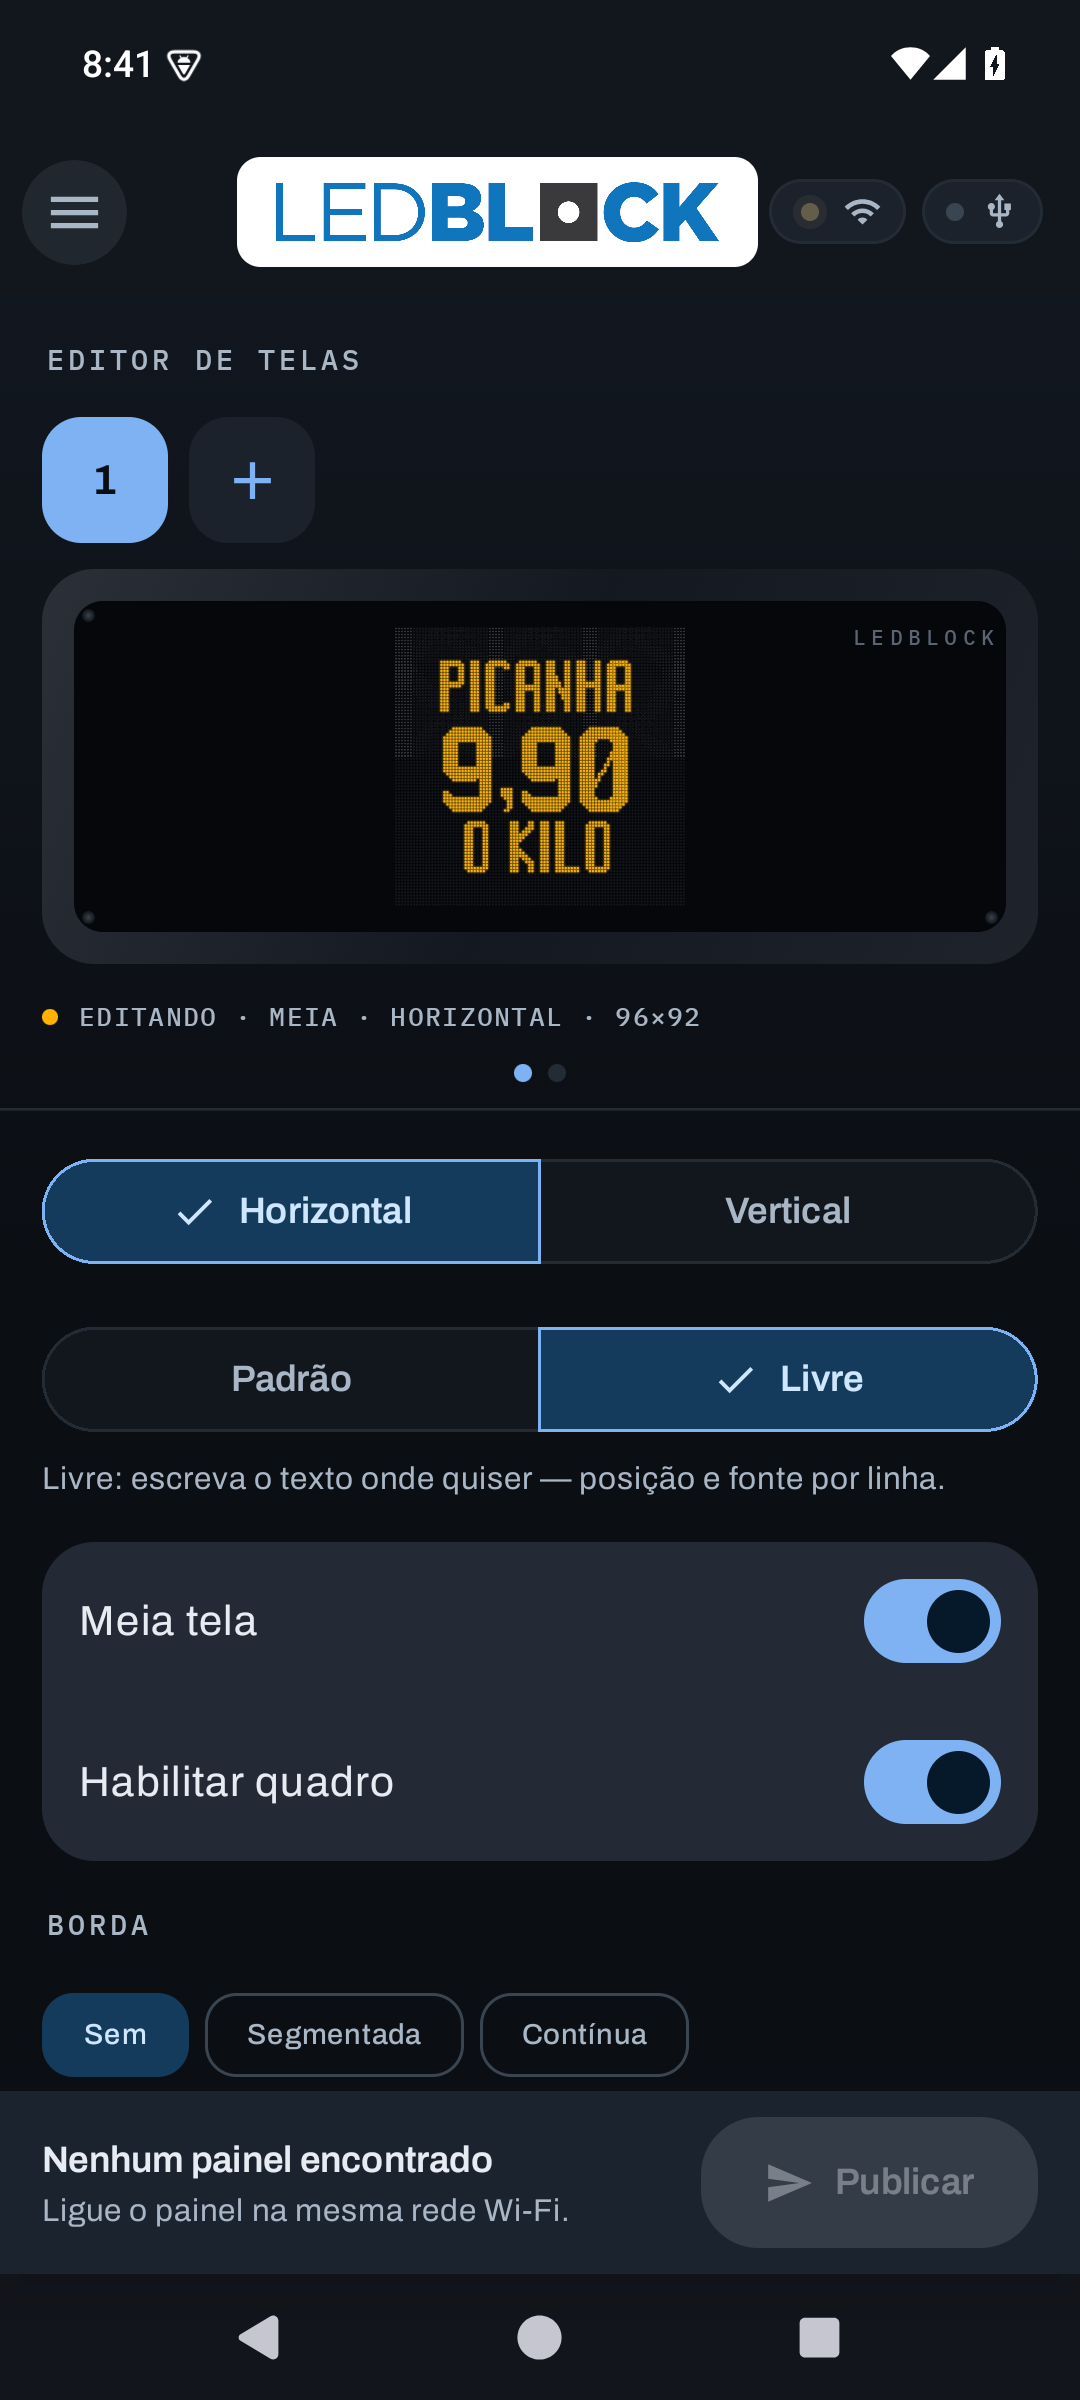
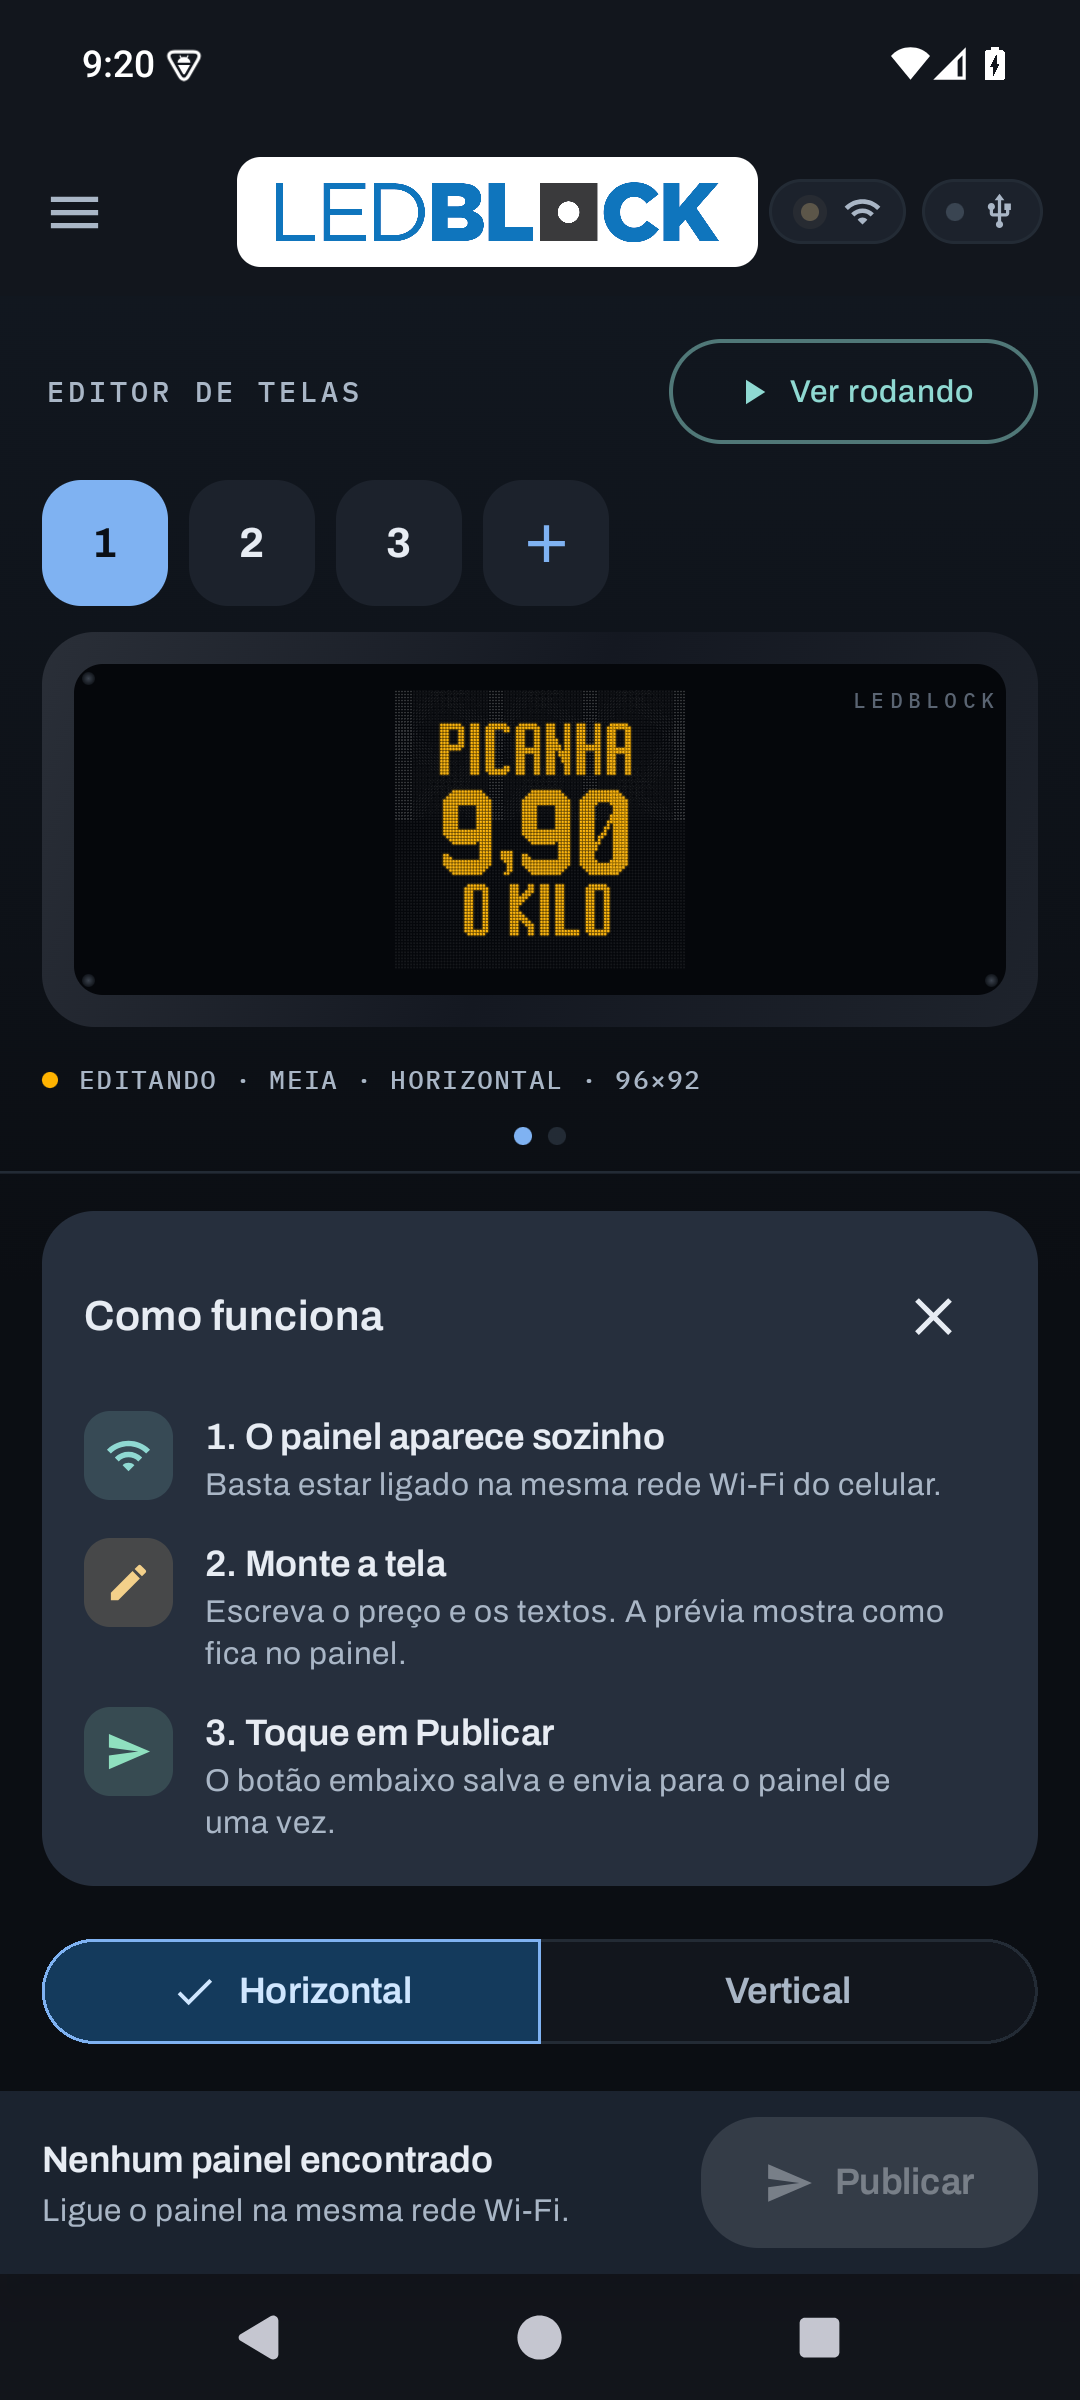
feat: criacao em lote e previa animada da sequencia
'Melhore exponencialmente': o ganho nao veio de polir, veio de multiplicar a saida.
APK v0.38.0 (versionCode 40). Build + testes verdes.

Criacao em lote (EditorViewModel.addBatch)
- Cole a lista de ofertas, uma por linha -> cada linha vira uma tela pronta, com
  a composicao inteligente (preco em destaque) e NOME tirado do produto
  ('PICANHA 9,90 O KILO' -> tela 'Picanha').
- Opcao de somar as telas atuais ou substituir. Acessivel pelo dialogo do '+'.
- Para quem troca 20 precos por semana, o album inteiro sai de uma colada.

Previa animada
- Botao 'Ver rodando' toca a sequencia usando o tempo de cada tela
  (DurationTable; indice 0 = auto -> 3s), como o painel vai exibir.
- Permite conferir o album de relance depois de cria-lo em massa.

Testes: BatchTest com 5 casos (nome vindo do produto, limite de 2 palavras, linha
sem preco, linhas em branco, separacao de cada oferta da lista).

Verificado no emulador: lista de 3 ofertas -> telas [1][2][3]; tela 1 = PICANHA/
9,90/O KILO, tela 2 = ALCATRA/7,90/O KILO; 'Ver rodando' alterna para 'Parar'.

diff --git a/app/src/main/java/br/com/painelofertas/ui/screens/EditarScreen.kt b/app/src/main/java/br/com/painelofertas/ui/screens/EditarScreen.kt
@@ -43,6 +43,9 @@ import androidx.compose.material.icons.filled.Download
 import androidx.compose.material.icons.filled.History
 import androidx.compose.material.icons.filled.KeyboardArrowDown
 import androidx.compose.material.icons.filled.KeyboardArrowUp
+import androidx.compose.material.icons.filled.Pause
+import androidx.compose.material.icons.filled.PlayArrow
+import androidx.compose.material.icons.filled.PlaylistAdd
 import androidx.compose.material.icons.filled.Sync
 import androidx.compose.material.icons.filled.Upload
 import androidx.compose.material.icons.filled.WarningAmber
@@ -148,7 +151,19 @@ fun EditarScreen() {
     var confirmClear by remember { mutableStateOf(false) }
     var confirmDeleteAlbum by remember { mutableStateOf<String?>(null) }
     var showNameDialog by remember { mutableStateOf(false) }
+    var showBatchDialog by remember { mutableStateOf(false) }
     var showGuide by remember { mutableStateOf(!container.settings.onboardingDone) }
+    var tocando by remember { mutableStateOf(false) }
+
+    // Prévia animada: avança pelas telas usando o tempo de cada uma (como o painel).
+    LaunchedEffect(tocando, vm.frames.size) {
+        if (!tocando || vm.frames.size <= 1) return@LaunchedEffect
+        while (tocando) {
+            val seg = DurationTable.secondsByIndex.getOrNull(vm.current?.durationIndex ?: 0) ?: 0
+            delay(if (seg > 0) seg * 1000L else 3000L)  // 0 = "auto" → 3s
+            vm.selected = (vm.sel + 1) % vm.frames.size
+        }
+    }
     var panelBusy by remember { mutableStateOf(false) }
     val ledIdx by container.settings.ledColor.collectAsState()
 
@@ -319,7 +334,24 @@ fun EditarScreen() {
             Modifier.fillMaxWidth().padding(horizontal = 16.dp).padding(top = 12.dp, bottom = 10.dp),
             verticalArrangement = Arrangement.spacedBy(10.dp),
         ) {
-            SectionLabel("Editor de telas")
+            Row(Modifier.fillMaxWidth(), verticalAlignment = Alignment.CenterVertically, horizontalArrangement = Arrangement.SpaceBetween) {
+                SectionLabel("Editor de telas")
+                // Prévia animada: roda a sequência como o painel vai exibir.
+                if (vm.frames.size > 1) {
+                    AccentOutlinedButton(
+                        onClick = { tocando = !tocando },
+                        accent = if (tocando) Accent.Rose else Accent.Teal,
+                    ) {
+                        Icon(
+                            if (tocando) Icons.Filled.Pause else Icons.Filled.PlayArrow,
+                            if (tocando) "Parar a prévia" else "Ver a sequência rodando",
+                            Modifier.size(16.dp),
+                        )
+                        Spacer(Modifier.size(6.dp))
+                        Text(if (tocando) "Parar" else "Ver rodando", style = MaterialTheme.typography.labelMedium)
+                    }
+                }
+            }
             ScreensBar(vm) { showNameDialog = true }
             if (cur != null) {
                 val frameAtual = cur.build(fonts, vm.portrait)
@@ -489,9 +521,21 @@ fun EditarScreen() {
     }
 
     if (showNameDialog) {
-        NovaTelaDialog(sugestao = "Tela ${vm.frames.size + 1}", onDismiss = { showNameDialog = false }) { nome, tipoMsg ->
+        NovaTelaDialog(
+            sugestao = "Tela ${vm.frames.size + 1}",
+            onDismiss = { showNameDialog = false },
+            onLote = { showNameDialog = false; showBatchDialog = true },
+        ) { nome, tipoMsg ->
             if (tipoMsg) vm.addMsg(nome) else vm.addOfe(nome)
             showNameDialog = false
+        }
+    }
+
+    if (showBatchDialog) {
+        LoteDialog(onDismiss = { showBatchDialog = false }) { texto, substituir ->
+            val n = vm.addBatch(texto, substituir)
+            msg = if (n > 0) "$n tela(s) criada(s) da lista." else "Nada para criar."
+            showBatchDialog = false
         }
     }
 
@@ -767,9 +811,14 @@ private fun PreviewPager(editing: PanelFrame, half: Boolean, portrait: Boolean, 
     }
 }
 
-/** Diálogo do "+": nomear a nova tela e escolher o tipo. */
+/** Diálogo do "+": nomear a nova tela, escolher o tipo — ou criar várias de uma vez. */
 @Composable
-private fun NovaTelaDialog(sugestao: String, onDismiss: () -> Unit, onCreate: (String, Boolean) -> Unit) {
+private fun NovaTelaDialog(
+    sugestao: String,
+    onDismiss: () -> Unit,
+    onLote: () -> Unit,
+    onCreate: (String, Boolean) -> Unit,
+) {
     var nome by remember { mutableStateOf("") }
     var tipoMsg by remember { mutableStateOf(false) }
     AlertDialog(
@@ -780,9 +829,55 @@ private fun NovaTelaDialog(sugestao: String, onDismiss: () -> Unit, onCreate: (S
             Column(verticalArrangement = Arrangement.spacedBy(12.dp)) {
                 OutlinedTextField(nome, { nome = it }, label = { Text("Nome (ex.: Picanha)") }, singleLine = true, modifier = Modifier.fillMaxWidth())
                 SegChoice(listOf("Oferta", "Mensagem"), if (tipoMsg) 1 else 0, Modifier.fillMaxWidth()) { tipoMsg = it == 1 }
+                HorizontalDivider(color = MaterialTheme.colorScheme.outlineVariant)
+                AccentOutlinedButton(onClick = onLote, accent = Accent.Teal, modifier = Modifier.fillMaxWidth()) {
+                    Icon(Icons.Filled.PlaylistAdd, null, Modifier.size(18.dp)); Spacer(Modifier.size(6.dp))
+                    Text("Criar várias de uma lista")
+                }
             }
         },
         confirmButton = { TextButton(onClick = { onCreate(nome.ifBlank { sugestao }, tipoMsg) }) { Text("Criar") } },
+        dismissButton = { TextButton(onClick = onDismiss) { Text("Cancelar") } },
+    )
+}
+
+/**
+ * **Criação em lote**: cole a lista de ofertas — uma por linha — e receba o álbum
+ * pronto. Cada linha vira uma tela diagramada com o preço em destaque.
+ */
+@Composable
+private fun LoteDialog(onDismiss: () -> Unit, onCriar: (String, Boolean) -> Unit) {
+    var texto by remember { mutableStateOf("") }
+    var substituir by remember { mutableStateOf(false) }
+    val linhas = texto.split('\n').count { it.isNotBlank() }
+
+    AlertDialog(
+        onDismissRequest = onDismiss,
+        icon = { Icon(Icons.Filled.PlaylistAdd, null) },
+        title = { Text("Criar várias telas") },
+        text = {
+            Column(verticalArrangement = Arrangement.spacedBy(12.dp)) {
+                Text(
+                    "Uma oferta por linha. O app separa o preço e monta cada tela.",
+                    style = MaterialTheme.typography.bodySmall,
+                    color = MaterialTheme.colorScheme.onSurfaceVariant,
+                )
+                OutlinedTextField(
+                    texto, { texto = it },
+                    label = { Text("Lista de ofertas") },
+                    placeholder = { Text("PICANHA 9,90 O KILO\nALCATRA 7,90 O KILO\nFRALDINHA 6,50 O KILO") },
+                    minLines = 5,
+                    modifier = Modifier.fillMaxWidth(),
+                )
+                InlineToggle("Substituir as telas atuais", substituir) { substituir = it }
+                if (linhas > 0) {
+                    MonoText("$linhas tela(s) serão criadas", size = 11, color = Accent.Teal)
+                }
+            }
+        },
+        confirmButton = {
+            TextButton(onClick = { onCriar(texto, substituir) }, enabled = linhas > 0) { Text("Criar $linhas") }
+        },
         dismissButton = { TextButton(onClick = onDismiss) { Text("Cancelar") } },
     )
 }

diff --git a/app/src/test/java/br/com/painelofertas/editor/BatchTest.kt b/app/src/test/java/br/com/painelofertas/editor/BatchTest.kt
@@ -1,0 +1,66 @@
+package br.com.painelofertas.editor
+
+import br.com.painelofertas.render.AutoLayout
+import org.junit.Assert.assertEquals
+import org.junit.Assert.assertTrue
+import org.junit.Test
+
+/**
+ * Criação em lote: cada linha da lista precisa virar uma tela com o texto certo,
+ * o preço reconhecido e um nome curto tirado do produto.
+ *
+ * Testa a lógica pura (separação + nome), sem depender do ViewModel/Android.
+ */
+class BatchTest {
+
+    /** Espelha `EditorViewModel.nomeDaOferta` — nome curto a partir da linha. */
+    private fun nomeDaOferta(linha: String): String {
+        val antes = AutoLayout.smartSplit(linha).firstOrNull()?.takeIf { !it.hero }?.text
+        val base = antes ?: linha
+        return base.split(Regex("\\s+")).take(2).joinToString(" ")
+            .lowercase().replaceFirstChar { it.uppercase() }
+    }
+
+    @Test
+    fun `nome da tela vem do produto antes do preco`() {
+        assertEquals("Picanha", nomeDaOferta("PICANHA 9,90 O KILO"))
+        assertEquals("File mignon", nomeDaOferta("FILE MIGNON 49,90 O KILO"))
+    }
+
+    @Test
+    fun `nome usa no maximo duas palavras`() {
+        assertEquals("Coxa e", nomeDaOferta("COXA E SOBRECOXA 8,90 O KILO"))
+    }
+
+    @Test
+    fun `linha sem preco ainda gera nome`() {
+        assertEquals("Bem vindos", nomeDaOferta("BEM VINDOS A NOSSA LOJA"))
+    }
+
+    @Test
+    fun `cada linha da lista vira uma oferta com preco destacado`() {
+        val lista = """
+            PICANHA 9,90 O KILO
+            ALCATRA 7,90 O KILO
+            FRALDINHA 6,50 O KILO
+        """.trimIndent()
+
+        val linhas = lista.split('\n').map { it.trim() }.filter { it.isNotBlank() }
+        assertEquals(3, linhas.size)
+
+        linhas.forEach { linha ->
+            val partes = AutoLayout.smartSplit(linha)
+            assertEquals("deveria separar em produto/preco/medida", 3, partes.size)
+            assertTrue("o preco deveria ser o destaque", partes[1].hero)
+        }
+
+        assertEquals(listOf("Picanha", "Alcatra", "Fraldinha"), linhas.map { nomeDaOferta(it) })
+    }
+
+    @Test
+    fun `linhas em branco sao ignoradas`() {
+        val lista = "PICANHA 9,90 O KILO\n\n   \nALCATRA 7,90 O KILO\n"
+        val linhas = lista.split('\n').map { it.trim() }.filter { it.isNotBlank() }
+        assertEquals(2, linhas.size)
+    }
+}

diff --git a/app/src/main/java/br/com/painelofertas/ui/vm/EditorViewModel.kt b/app/src/main/java/br/com/painelofertas/ui/vm/EditorViewModel.kt
@@ -9,6 +9,7 @@ import androidx.compose.runtime.snapshots.SnapshotStateList
 import androidx.lifecycle.ViewModel
 import br.com.painelofertas.editor.FrameDraft
 import br.com.painelofertas.protocol.Album
+import br.com.painelofertas.render.AutoLayout
 
 /**
  * Estado do editor de álbum. Vive num [ViewModel] com escopo de Activity, então
@@ -85,6 +86,32 @@ class EditorViewModel : ViewModel() {
 
     fun addMsg(name: String = "") { frames.add(FrameDraft.Msg(name = name)); selected = frames.lastIndex }
     fun addOfe(name: String = "") { frames.add(FrameDraft.Ofe(name = name)); selected = frames.lastIndex }
+
+    /**
+     * **Criação em lote**: cada linha da lista vira uma tela pronta, com a
+     * composição inteligente (preço em destaque) e nome tirado do produto.
+     *
+     * `PICANHA 9,90 O KILO` → tela "Picanha". N ofertas pelo custo de digitar uma
+     * lista — é o dia a dia de quem troca 20 preços por semana.
+     */
+    fun addBatch(texto: String, substituir: Boolean): Int {
+        val linhas = texto.split('\n').map { it.trim() }.filter { it.isNotBlank() }
+        if (linhas.isEmpty()) return 0
+        if (substituir) frames.clear()
+        linhas.forEach { linha ->
+            frames.add(FrameDraft.Msg(name = nomeDaOferta(linha), freeText = linha, autoFit = true, smart = true))
+        }
+        selected = frames.lastIndex.coerceAtLeast(0)
+        return linhas.size
+    }
+
+    /** Nome curto da tela a partir da linha: o que vem antes do preço (ou as 2 primeiras palavras). */
+    private fun nomeDaOferta(linha: String): String {
+        val antes = AutoLayout.smartSplit(linha).firstOrNull()?.takeIf { !it.hero }?.text
+        val base = antes ?: linha
+        return base.split(Regex("\\s+")).take(2).joinToString(" ")
+            .lowercase().replaceFirstChar { it.uppercase() }
+    }
 
     /** Renomeia a tela [index] (o nome aparece nos quadradinhos e na Sequência). */
     fun renameFrame(index: Int, newName: String) {

diff --git a/CHANGELOG.md b/CHANGELOG.md
@@ -8,6 +8,20 @@ Todas as mudanças relevantes do projeto. Formato baseado em
 
 ---
 
+## [0.38.0] — 2026-08-29 · `versionCode 40`
+
+### Adicionado
+- **Criação em lote — o álbum inteiro de uma vez**: cole a lista de ofertas (uma por
+  linha) e cada linha vira uma tela pronta, diagramada com o preço em destaque e
+  **nomeada pelo produto**. Quem troca 20 preços por semana passa a fazer isso numa
+  colada. Opção de somar às telas atuais ou substituir
+- **Prévia animada**: botão **Ver rodando** exibe a sequência girando com o **tempo
+  de cada tela**, como o painel vai mostrar — dá para conferir o álbum de relance
+- +5 testes (`BatchTest`) da lógica de lote: nome vindo do produto, limite de duas
+  palavras, linhas sem preço, linhas em branco e a separação de cada oferta
+
+---
+
 ## [0.37.0] — 2026-08-29 · `versionCode 39`
 
 ### Adicionado
